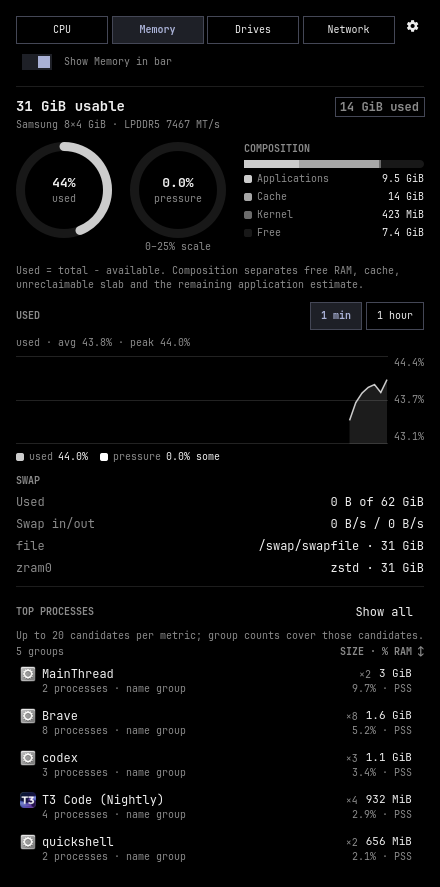
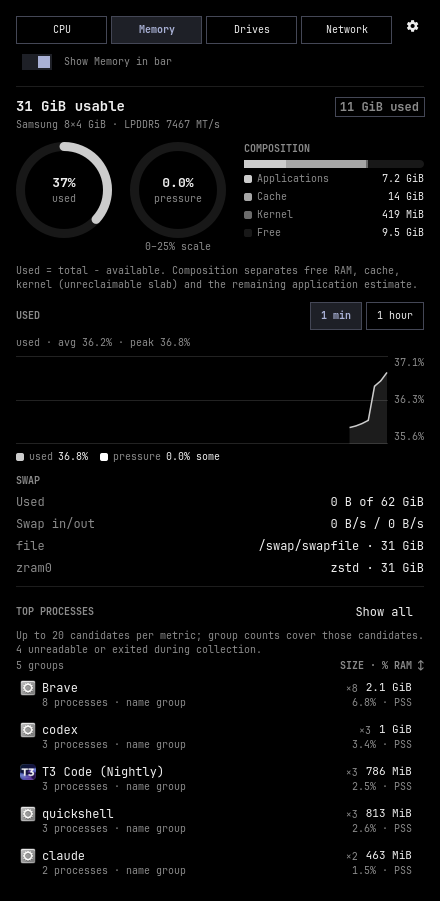
fix: keep panel tabs stable across text sizes and widths

diff --git a/tests/qs/panel-ui.qml b/tests/qs/panel-ui.qml
@@ -3,6 +3,7 @@ import QtQuick
 import QtQuick.Window
 import Quickshell
 import QtTest
+import qs.Commons as Commons
 import qs.Ui as Ui
 import "components" as Components
 import "tabs" as Tabs
@@ -83,11 +84,17 @@ ShellRoot {
   Component { id: memoryComponent; Tabs.MemoryTab { } }
   Component { id: storeComponent; Components.Store { } }
   Component { id: choicesComponent; Components.DeviceChoices { onChanged: function (value) { this.value = value } } }
+  Component { id: headerComponent; Components.PanelHeader { } }
   TestCase {
     id: testCase
     name: "PanelClarity"
     when: testWindow.visible
     windowShown: true
+    property var initialStyle: ({})
+    function initTestCase() {
+      wait(20)
+      initialStyle = Object.assign({}, Commons.Color.shellValues)
+    }
     function cleanupTestCase() {
       console.log("QPANELUI " + JSON.stringify({ passed: qtest_results.passCount, failed: qtest_results.failCount }))
     }
@@ -95,6 +102,7 @@ ShellRoot {
       if (qtest_results.failed) console.error("QPANELUI failure: " + qtest_results.functionName + " " + qtest_results.dataTag)
     }
     function init() {
+      Commons.Style.applyShellValues(initialStyle)
       fakePanel.settingsOpen = false; fakePanel.longWindow = false
       fakePanel.gpuAvailable = true; fakePanel.barAvailable = true; fakePanel.barEnabled = false
       fakePanel.currentTab = "cpu"
@@ -206,6 +214,66 @@ ShellRoot {
       firstGraph.finePoints = [{ t: 1, rx: null, tx: null }, { t: 2, rx: 20, tx: 10 }]
       compare(firstGraph.stats.avg, 30)
       verify(firstGraph.note.indexOf("total · avg") === 0)
+    }
+    function test_header_width_sweep_data() {
+      var cases = []
+      for (var font = 12; font <= 18; font++) {
+        for (var spacing of [1, 1.5, 2]) {
+          for (var gpu of [false, true])
+            cases.push({ tag: font + "px spacing " + spacing + " " + (gpu ? "five" : "four"), font: font, spacing: spacing, gpu: gpu })
+        }
+      }
+      return cases
+    }
+    function test_header_measures_current_labels_and_text_size() {
+      var view = createTemporaryObject(headerComponent, keys, { width: 440, currentTab: "mem", options: [
+        { value: "cpu", label: "CPU" }, { value: "mem", label: "Very detailed memory statistics" }, { value: "net", label: "Net" }
+      ] })
+      verify(view)
+      wait(20)
+      var memory = findChild(view, "panelTab_mem")
+      verify(memory.width >= memory.implicitWidth, "measure the current labels, including a new widest label")
+      view.options = [{ value: "cpu", label: "CPU" }, { value: "mem", label: "RAM" }, { value: "net", label: "Net" }]
+      wait(20)
+      memory = findChild(view, "panelTab_mem")
+      compare(memory.y, findChild(view, "panelTab_cpu").y, "shorter options can share a row again")
+      Commons.Style.applyShellValues({ "font.base-size": 18, "spacing.scale": 1.5 })
+      wait(20)
+      for (var name of ["cpu", "mem", "net"]) {
+        var button = findChild(view, "panelTab_" + name)
+        verify(button.width >= button.implicitWidth, "live text sizing updates label measurement")
+      }
+    }
+    function test_header_width_sweep(data) {
+      // Only this throwaway process changes; no user config is written.
+      Commons.Style.applyShellValues({ "font.base-size": data.font, "spacing.scale": data.spacing })
+      var options = (data.gpu ? ["cpu", "gpu", "mem", "disk", "net"] : ["cpu", "mem", "disk", "net"])
+                    .map(function (t) { return { value: t, label: fakePanel.labels[t] } })
+      var view = createTemporaryObject(headerComponent, keys, { width: Commons.Style.space(440), options: options, currentTab: "net" })
+      verify(view)
+      wait(20)
+      var flow = findChild(view, "panelTabs")
+      var gear = findChild(view, "panelSettings")
+      var buttons = options.map(function (o) { return findChild(view, "panelTab_" + o.value) })
+      var widest = Math.max.apply(null, buttons.map(function (b) { return b.implicitWidth }))
+      var reserved = view.width - flow.width
+      // Skip widths too small to fit even one full label plus the settings action.
+      for (var width = Math.max(240, Math.ceil(widest + reserved)); width <= Commons.Style.space(440); width++) {
+        view.width = width
+        flow.forceLayout()
+        for (var i = 0; i < buttons.length; i++) {
+          var button = buttons[i]
+          verify(button.width + 0.01 >= button.implicitWidth, "labels fit at width " + width)
+          verify(button.x >= 0 && button.x + button.width <= flow.width + 0.01)
+          if (i > 0 && button.y > buttons[i - 1].y) {
+            var nextX = buttons[i - 1].x + buttons[i - 1].width + flow.spacing
+            var fits = nextX + button.width <= flow.width + 0.01
+            if (fits) console.error("QPANELUI avoidable wrap at width " + width + " for " + data.tag)
+            verify(!fits, "a tab must not wrap while its full slot fits on the previous row")
+          }
+        }
+        verify(flow.width < gear.x)
+      }
     }
     function test_device_choices_fit_without_losing_full_names() {
       var name = "A very long GPU or drive model name that exceeds a narrow panel width"

diff --git a/components/PanelHeader.qml b/components/PanelHeader.qml
@@ -26,13 +26,19 @@ Item {
 
   // Measure the widest selected label with the same theme chrome as the
   // real buttons; a bold selection must not make an equal slot too small.
-  Ui.Button {
+  Column {
     id: tabMeasure
     visible: false
-    text: "Network"
-    fontSize: Commons.Style.font.caption
-    selected: true
-    bordered: true
+    Repeater {
+      model: root.options
+      delegate: Ui.Button {
+        required property var modelData
+        text: modelData.label
+        fontSize: Commons.Style.font.caption
+        selected: true
+        bordered: true
+      }
+    }
   }
 
   Flow {
@@ -40,7 +46,9 @@ Item {
     objectName: "panelTabs"
     width: Math.max(0, root.width - gear.width - Commons.Style.space(8))
     spacing: Commons.Style.space(4)
-    readonly property int maxColumns: Math.max(1, Math.floor((width + spacing) / (tabMeasure.implicitWidth + spacing)))
+    // Round the minimum up and each slot down so Flow cannot wrap a fitting
+    // tab because floating-point sums exceed the available width slightly.
+    readonly property int maxColumns: Math.max(1, Math.floor((width + spacing) / (Math.ceil(tabMeasure.implicitWidth) + spacing)))
     readonly property int rows: Math.ceil((root.options.length || 1) / maxColumns)
     readonly property int columns: Math.ceil((root.options.length || 1) / rows)
 
@@ -49,7 +57,7 @@ Item {
       delegate: Ui.Button {
         required property var modelData
         objectName: "panelTab_" + modelData.value
-        width: Math.max(0, (tabFlow.width - tabFlow.spacing * (tabFlow.columns - 1)) / tabFlow.columns)
+        width: Math.max(0, Math.floor((tabFlow.width - tabFlow.spacing * (tabFlow.columns - 1)) / tabFlow.columns))
         text: modelData.label
         tooltipText: modelData.label
         selected: !root.settingsOpen && root.currentTab === modelData.value

diff --git a/tabs/MemoryTab.qml b/tabs/MemoryTab.qml
@@ -194,7 +194,7 @@ Item {
     Text {
       objectName: "memoryAccounting"
       textFormat: Text.PlainText
-      text: "Used = total − available. Composition separates free RAM, cache, unreclaimable slab and the remaining application estimate."
+      text: "Used = total − available. Composition separates free RAM, cache, kernel (unreclaimable slab) and the remaining application estimate."
       color: root.pal.dim
       font.family: Commons.Style.font.family
       font.pixelSize: Commons.Style.font.caption

diff --git a/docs/DEVELOPMENT.md b/docs/DEVELOPMENT.md
@@ -137,9 +137,12 @@ the lifecycle test needs only Quickshell. Both use isolated temporary state.
 `qs-panel-ui.sh` exercises the real panel shortcut dispatcher, duration
 buttons, synchronized graphs, summary click and wheel, search focus,
 settings Esc, and access when a bar segment is absent. Four- and five-tab
-headers are checked at 320 and 440 px; device choices and hardware details
-keep long names within the panel. PSI prints its actual value above the
-ring's labelled scale. A real Store fixture changes from 250 ms to 10 s
+headers are checked at 320 and 440 px, plus a one-pixel width sweep for
+font sizes 12–18 and spacing scales 1, 1.5, and 2. It rejects avoidable extra
+rows and clipped labels, and checks new labels and live text-size changes.
+These style fixtures change only the throwaway test process. Device choices
+and hardware details keep long names within the panel. PSI prints its actual
+value above the ring's labelled scale. A real Store fixture changes from 250 ms to 10 s
 and 60 s collection, verifying that minute history expires by timestamp
 rather than by the new cadence's point count. Both load-patch modes run.
 

diff --git a/docs/USAGE.md b/docs/USAGE.md
@@ -78,7 +78,7 @@ leave the 60 s window, including samples collected at the previous cadence.
 
 Memory's used ring is total RAM minus the kernel's available estimate. Its
 composition shows a separate physical-RAM breakdown, with an application
-estimate after free RAM, cache, and unreclaimable slab. The pressure ring
+estimate after free RAM, cache, and kernel (unreclaimable slab). The pressure ring
 labels its **0–25% visual scale** while printing the actual PSI percentage,
 including values above 25%. Swap remains outside that physical-RAM breakdown.
 
